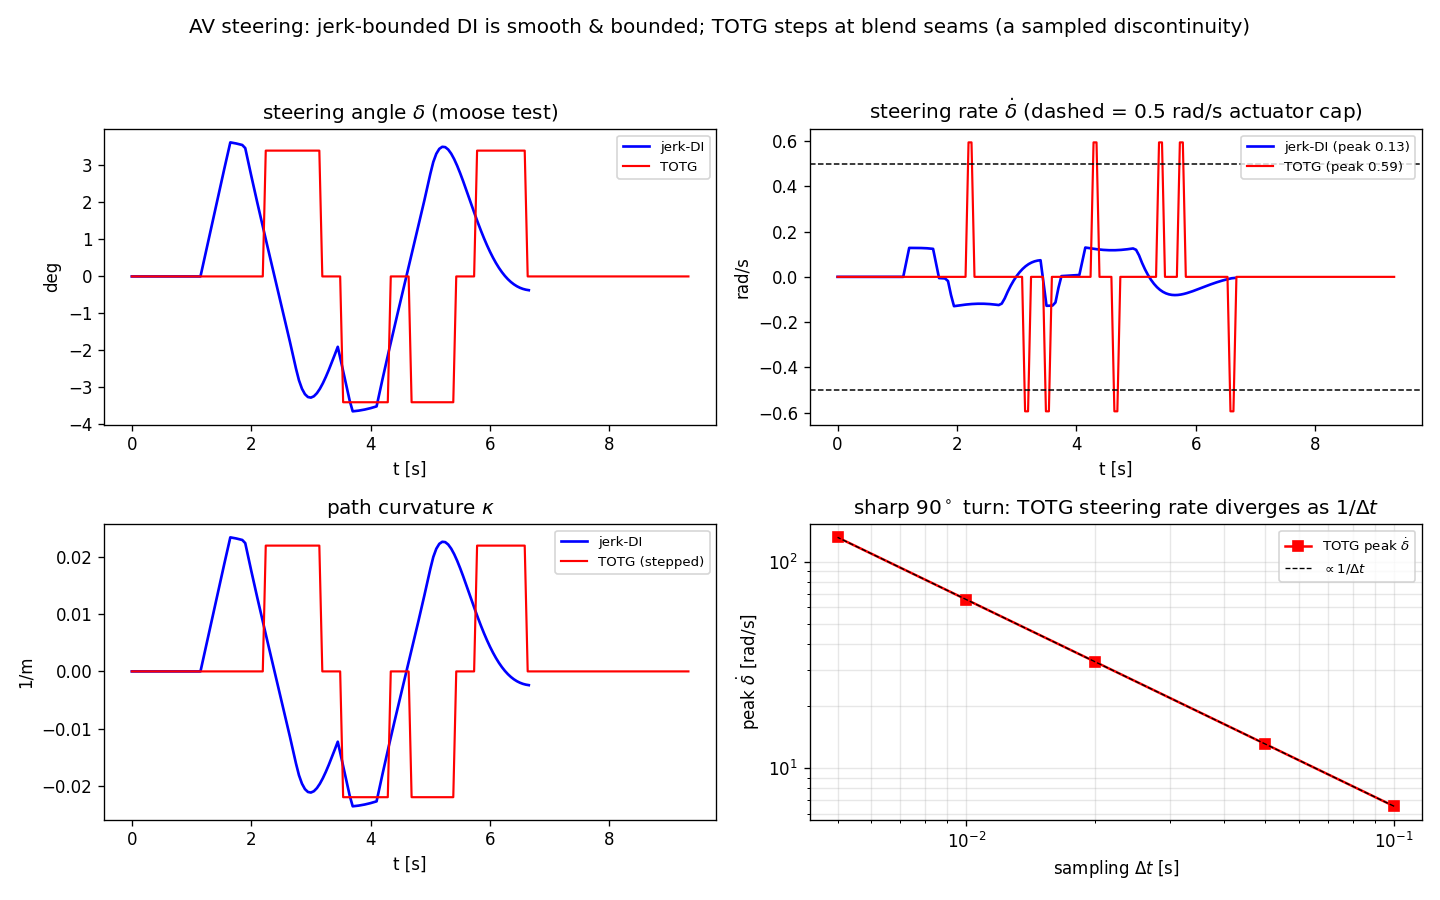
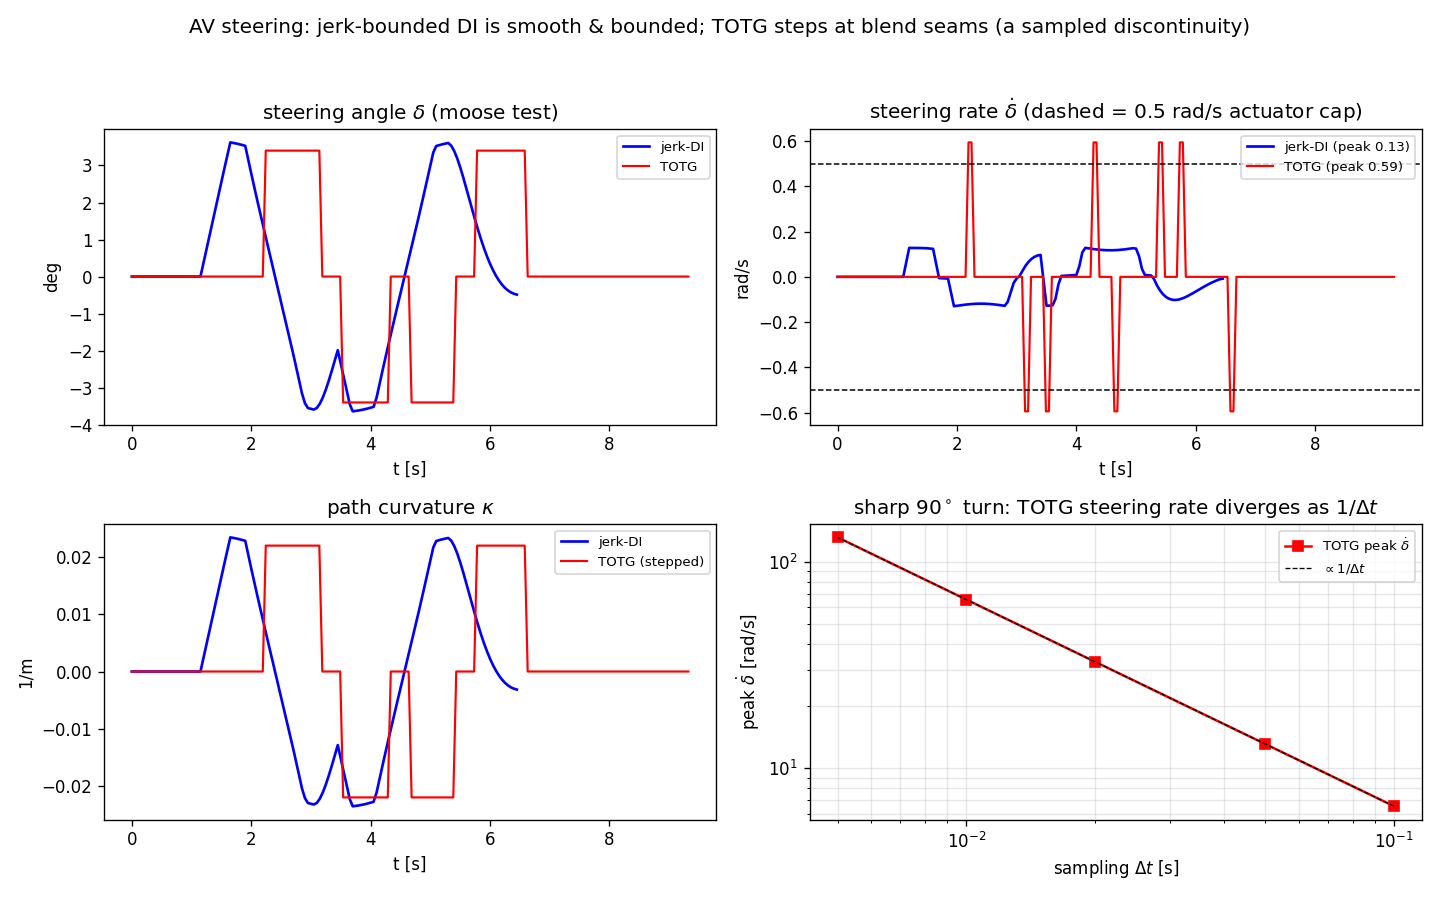
AV planner: report QP failure, completion, and residuals; clarify jerk vs steering rate
External review of the reactive motion-planning paper. Addresses the code
findings; no reported number changes (verified below).

benchmarks/di_lateral.py:

- Infeasible or inaccurate solves were silently replaced by `j0 = 0.0` and the
  rollout continued, with the returned dict carrying no status, failure count,
  completion flag, or terminal error. It now validates every solve against the
  actual box rows (max |A U - [l,u]| <= feas_tol) rather than trusting the
  status string, since OSQP "solved inaccurate" does not guarantee feasibility;
  counts and surfaces failures; and offers strict=True to raise instead of
  falling back. The zero-jerk fallback remains as a documented safe hold, but
  is now counted and reported, never silent.

- Returns status, completed, n_qp_failures, qp_statuses, max_primal_residual,
  feas_tol, goal_tol, terminal_error, terminal_vy, terminal_ay. The 0.05 m
  completion test is now the explicit `goal_tol` parameter and sets
  `completed`, so a stalled plan is distinguishable from a converged one.

- Adds steering_rate_report(), which measures steering angle and rate from the
  full bicycle relation delta = arctan(L(vx ay - vy ax)/|v|^3) rather than a
  small-angle shortcut.

Reproduced both of the review's empirical cases before fixing. The impossible
task (y: 0->20 m in 0.2 s, all limits 0.01) returned a 4-step trajectory ending
at 1.333e-05 m -- exactly as reported. Worth recording: that case has ZERO QP
[…]

diff --git a/benchmarks/di_lateral.py b/benchmarks/di_lateral.py
@@ -42,12 +42,38 @@ def _tri_matrices(dt, N):
 def plan_lateral_jerk(wps, V, dt=0.05, N=30,
                       a_lat_max=4.0, j_max=8.0, vy_max=6.0,
                       wq=20.0, wa=0.2, wr=0.02, gamma=10.0,
-                      switch_dx=4.0, t_max=30.0):
+                      switch_dx=4.0, t_max=30.0,
+                      goal_tol=0.05, strict=False, feas_tol=1e-4):
     """Plan lateral offset y(t) at constant forward speed V through (x,y) wps.
 
     Bounds: |y_ddot| <= a_lat_max (lateral accel), |y_dddot| <= j_max (lateral
     jerk -> steering rate), |y_dot| <= vy_max.  Returns V,A arrays (vx=V, ax=0)
     so steering() in benchmark_av.py applies unchanged.
+
+    NOTE ON WHAT IS AND IS NOT CONSTRAINED. The QP rows are lateral velocity,
+    lateral acceleration, and lateral jerk. There is NO steering or
+    steering-rate row. Bounding jerk bounds steering rate only through the
+    bicycle relation delta = arctan(L (vx ay - vy ax)/|v|^3), whose full
+    dependence on lateral velocity and acceleration must be accounted for
+    before a given j_max implies a particular delta-dot cap. Treat the
+    reported steering rate as measured compliance at the tested cruise speed,
+    not as a constraint enforced by construction. `steering_rate_report()`
+    below measures it from the produced trajectory.
+
+    Failure reporting (an external review found infeasible solves were
+    silently replaced by zero jerk, with no way for a caller to tell):
+      strict    -- if True, raise RuntimeError on the first non-optimal solve
+                   or primal-residual violation instead of holding jerk at 0.
+      feas_tol  -- primal-residual tolerance for accepting a solve; the box
+                   rows are checked explicitly rather than trusting the status
+                   string, since OSQP's "solved inaccurate" does not guarantee
+                   A U stays inside [l, u].
+      goal_tol  -- lateral tolerance for declaring the maneuver complete.
+
+    The returned dict carries `status`, `n_qp_failures`, `qp_statuses`,
+    `max_primal_residual`, `completed`, `terminal_error`, `terminal_vy` and
+    `terminal_ay`, so a stalled or incomplete plan is never indistinguishable
+    from a converged one.
     """
     wps = np.asarray(wps, float)
     xs, ys = wps[:, 0], wps[:, 1]
@@ -67,6 +93,9 @@ def plan_lateral_jerk(wps, V, dt=0.05, N=30,
     z = np.array([ys[0], 0.0, 0.0])
     x = xs[0]
     Y, VY, AY, J, st = [], [], [], [], []
+    A_dense = np.vstack([Gv, Ga, np.eye(N)])
+    qp_statuses, n_fail, max_resid = {}, 0, 0.0
+    completed = False
     steps = int(t_max / dt)
     for _ in range(steps):
         # running lateral goal: offset of the next waypoint ahead in x
@@ -86,8 +115,32 @@ def plan_lateral_jerk(wps, V, dt=0.05, N=30,
                             j_max * np.ones(N)])
         prob.update(q=q, l=l, u=u)
         r = prob.solve()
-        j0 = r.x[0] if r.info.status_val in (1, 2) else 0.0
         st.append(r.info.solve_time)
+        qp_statuses[r.info.status] = qp_statuses.get(r.info.status, 0) + 1
+
+        # Accept a solve only if it is optimal AND the returned input actually
+        # satisfies the box rows. Status alone is not enough: "solved
+        # inaccurate" (status_val 2) can still violate them.
+        ok = r.info.status_val in (1, 2) and r.x is not None \
+            and np.all(np.isfinite(r.x))
+        resid = np.inf
+        if ok:
+            au = A_dense @ r.x
+            resid = float(np.max(np.maximum(np.maximum(l - au, au - u), 0.0)))
+            max_resid = max(max_resid, resid)
+            ok = resid <= feas_tol
+        if ok:
+            j0 = float(r.x[0])
+        else:
+            n_fail += 1
+            if strict:
+                raise RuntimeError(
+                    f"lateral QP failed at t={len(Y)*dt:.3f}s: "
+                    f"status={r.info.status!r}, primal residual={resid:.3e} "
+                    f"(tol {feas_tol:.1e}). Refusing to substitute zero jerk.")
+            # Documented safe fallback: hold jerk at zero for this step. It is
+            # COUNTED and surfaced in the returned status, never silent.
+            j0 = 0.0
 
         # exact triple-integrator step
         y, vy, ay = z
@@ -98,14 +151,58 @@ def plan_lateral_jerk(wps, V, dt=0.05, N=30,
         ])
         x += V * dt
         Y.append(z[0]); VY.append(z[1]); AY.append(z[2]); J.append(j0)
-        if x >= xs[-1] - 1e-6 and abs(z[0] - ys[-1]) < 0.05:
+        if x >= xs[-1] - 1e-6 and abs(z[0] - ys[-1]) < goal_tol:
+            completed = True
             break
 
     n = len(Y)
     V_arr = np.column_stack([np.full(n, V), np.array(VY)])
     A_arr = np.column_stack([np.zeros(n), np.array(AY)])
+    status = ("ok" if (completed and n_fail == 0) else
+              "incomplete" if n_fail == 0 else
+              "qp_failure")
     return dict(V=V_arr, A=A_arr, dt=dt, t=np.arange(n) * dt,
-                solve_t=np.array(st), Y=np.array(Y), J=np.array(J))
+                solve_t=np.array(st), Y=np.array(Y), J=np.array(J),
+                # --- explicit outcome reporting (see docstring) ---
+                status=status,
+                completed=bool(completed),
+                n_qp_failures=int(n_fail),
+                qp_statuses=dict(qp_statuses),
+                max_primal_residual=float(max_resid),
+                feas_tol=float(feas_tol),
+                goal_tol=float(goal_tol),
+                terminal_error=float(Y[-1] - ys[-1]) if n else float("nan"),
+                terminal_vy=float(VY[-1]) if n else float("nan"),
+                terminal_ay=float(AY[-1]) if n else float("nan"))
+
+
+def steering_rate_report(res, L=2.7, V=None):
+    """Measure steering angle and rate from a planned trajectory.
+
+    Uses the full bicycle relation rather than the small-angle / constant-speed
+    shortcut, so the number can be compared against a real actuator limit:
+
+        delta = arctan( L * (vx*ay - vy*ax) / |v|^3 ),   |v|^2 = vx^2 + vy^2
+
+    with delta-dot obtained by finite differences. The planner does NOT
+    constrain delta or delta-dot (see plan_lateral_jerk), so this reports
+    measured compliance, not an enforced bound. Returns max/RMS of both.
+    """
+    Vm, Am, dt = res["V"], res["A"], res["dt"]
+    vx, vy = Vm[:, 0], Vm[:, 1]
+    ax, ay = Am[:, 0], Am[:, 1]
+    speed = np.sqrt(vx ** 2 + vy ** 2)
+    with np.errstate(divide="ignore", invalid="ignore"):
+        kappa = (vx * ay - vy * ax) / speed ** 3
+    kappa = np.nan_to_num(kappa, nan=0.0, posinf=0.0, neginf=0.0)
+    delta = np.arctan(L * kappa)
+    ddelta = np.gradient(delta, dt) if len(delta) > 1 else np.zeros_like(delta)
+    return {
+        "max_abs_delta_rad": float(np.max(np.abs(delta))),
+        "max_abs_delta_rate_rad_s": float(np.max(np.abs(ddelta))),
+        "rms_delta_rate_rad_s": float(np.sqrt(np.mean(ddelta ** 2))),
+        "wheelbase_m": float(L),
+    }
 
 
 if __name__ == "__main__":
@@ -117,3 +214,12 @@ if __name__ == "__main__":
     print(f"peak |y_ddot| (lat accel) = {np.abs(r['A'][:,1]).max():.2f}")
     print(f"peak |jerk| = {np.abs(r['J']).max():.2f}")
     print(f"mean solve = {1e3*r['solve_t'].mean():.3f} ms")
+    print(f"status={r['status']}  completed={r['completed']}  "
+          f"qp_failures={r['n_qp_failures']}  "
+          f"max_primal_residual={r['max_primal_residual']:.2e}")
+    print(f"terminal: err={r['terminal_error']:+.4f} m  "
+          f"vy={r['terminal_vy']:+.4f} m/s  ay={r['terminal_ay']:+.4f} m/s^2")
+    sr = steering_rate_report(r)
+    print(f"measured |delta|max={sr['max_abs_delta_rad']:.4f} rad  "
+          f"|delta_dot|max={sr['max_abs_delta_rate_rad_s']:.4f} rad/s "
+          f"(measured, NOT constrained by the QP)")

diff --git a/paper/body.tex b/paper/body.tex
@@ -516,7 +516,13 @@ The trade-off is a larger state and extra predicted-state rows, though the
 decision sequence is still length \(nN\), now a jerk sequence
 \(J=[j(0),\dots,j(N-1)]\) rather than acceleration. The AV steering-rate
 benchmark (§VI.C) uses exactly this for the lateral channel, since steering
-rate depends on lateral jerk.
+rate depends on lateral jerk. The jerk row bounds lateral jerk, not steering
+rate itself: because
+\(\delta=\arctan\!\big(L(\dot x\ddot y-\dot y\ddot x)/(\dot x^2+\dot y^2)^{3/2}\big)\)
+depends nonlinearly on the lateral velocity and acceleration as well, a given
+\(j_{\max}\) implies a steering-rate cap only once those terms are accounted
+for at the operating point. The harness therefore \emph{measures} the
+resulting steering rate (§VI.C) rather than constraining it in the QP.
 
 The rest of the paper uses the double-integrator backbone as the main
 manipulator planner because it is the smallest model that enforces
